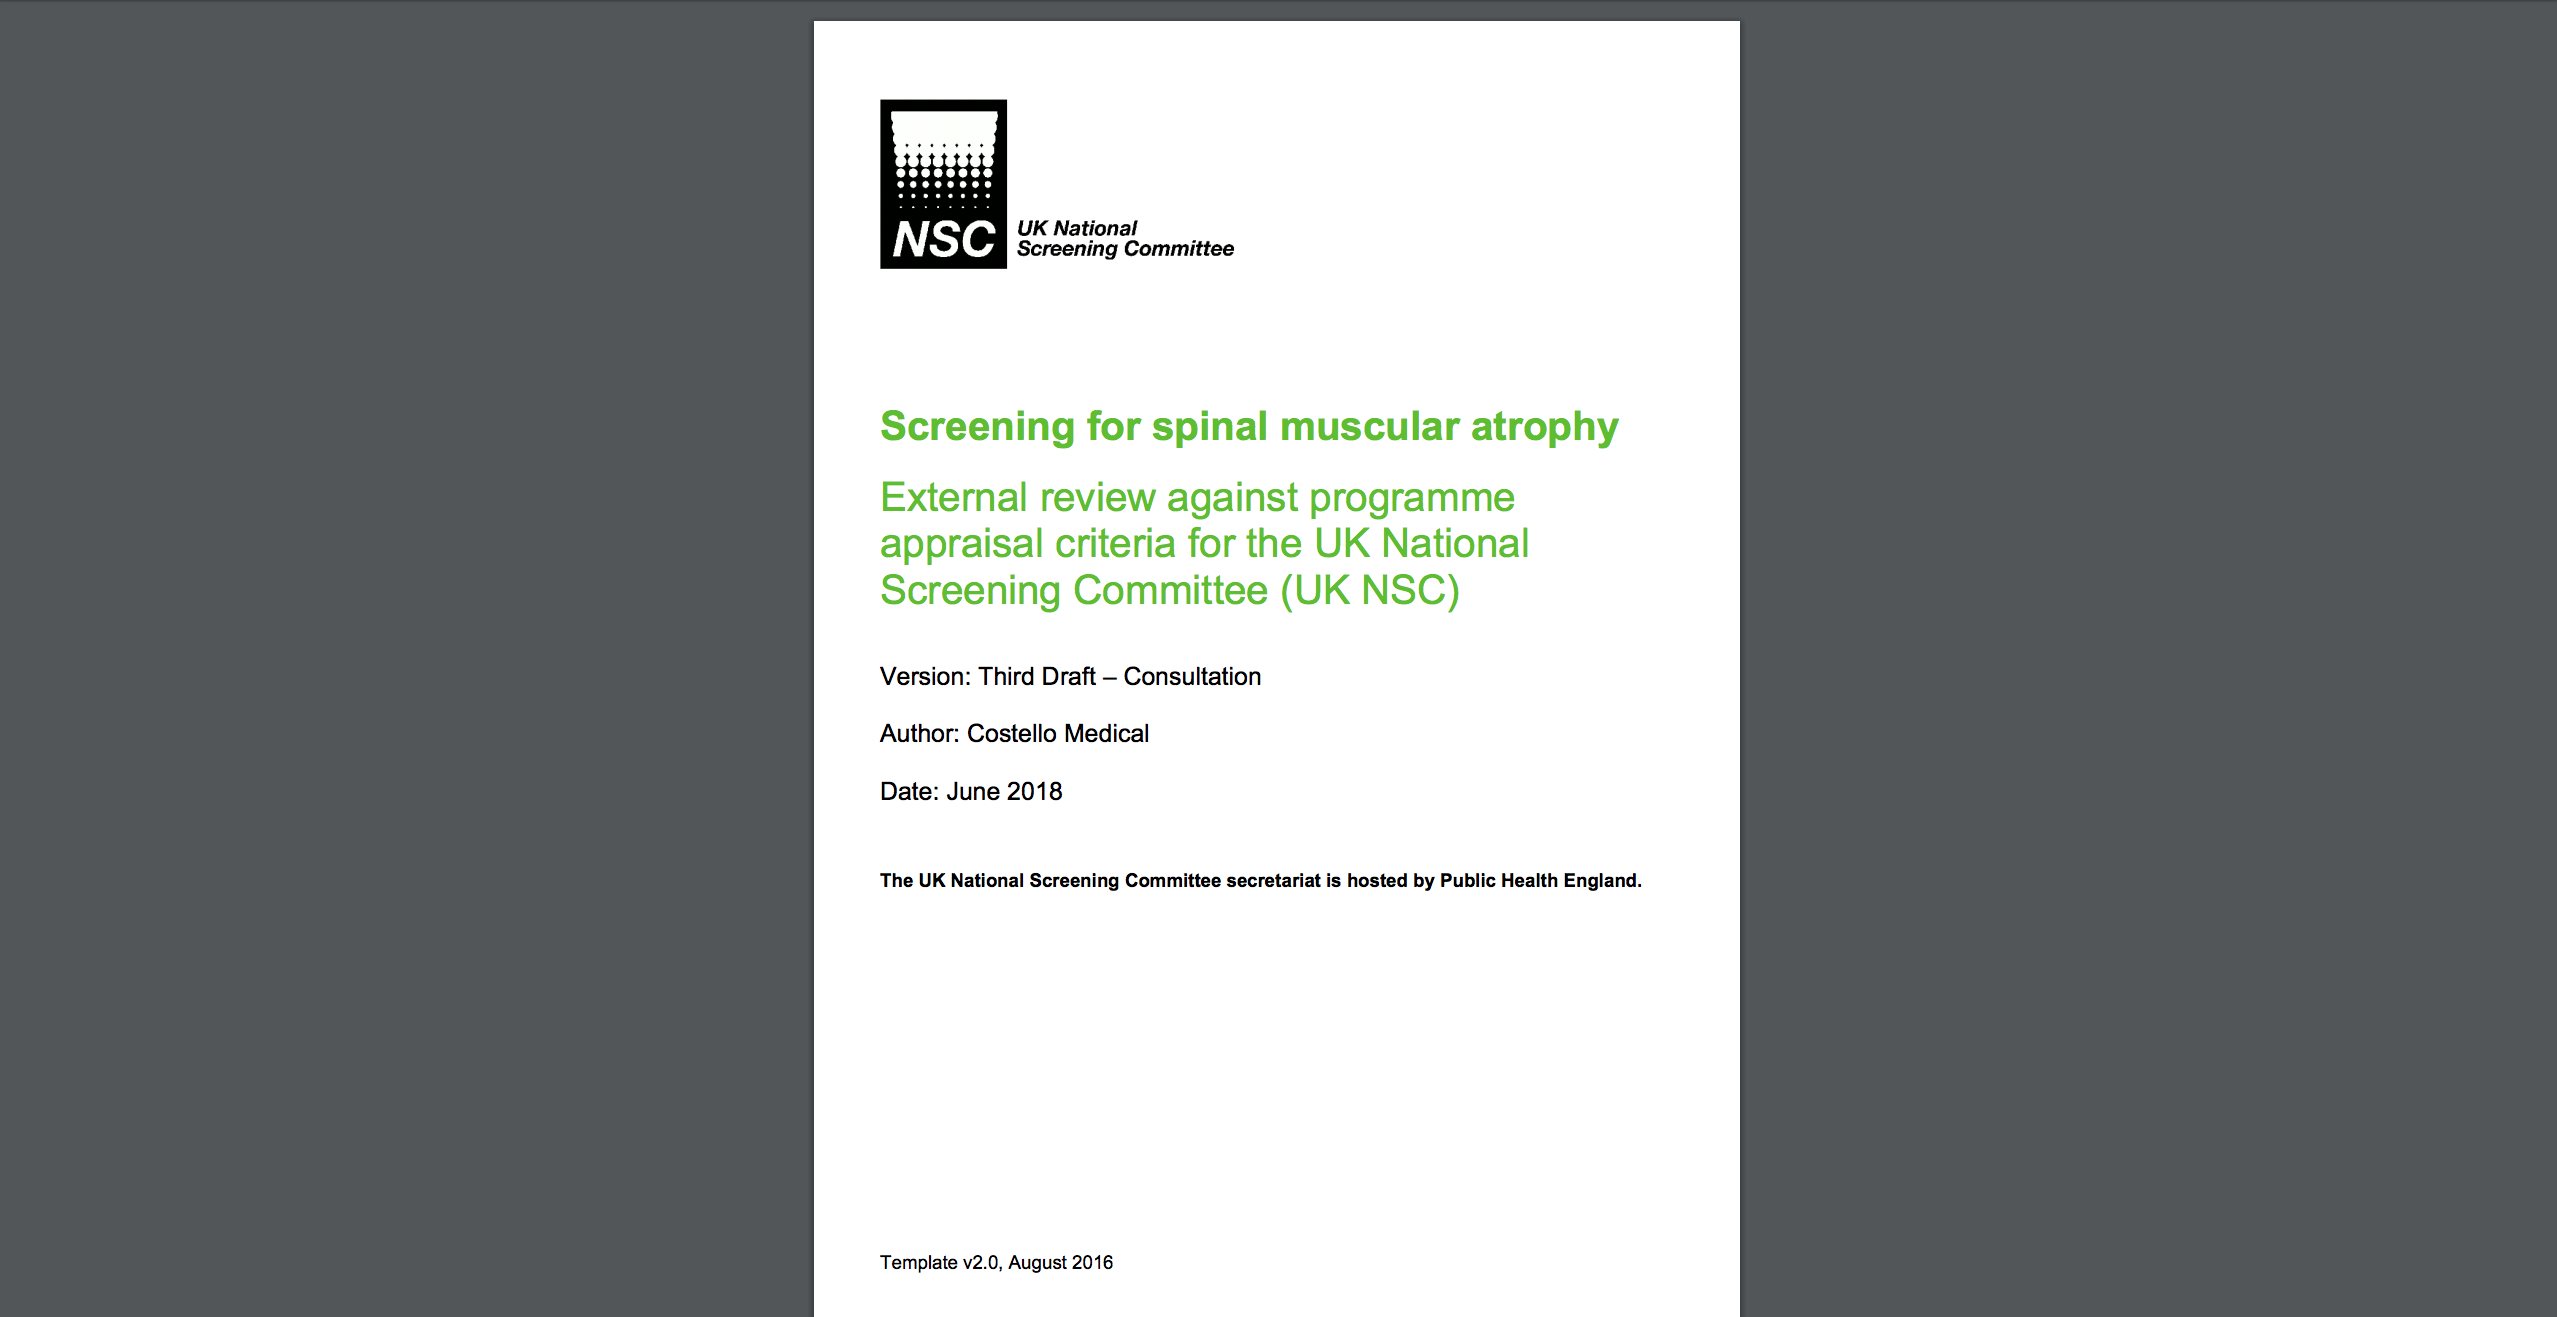
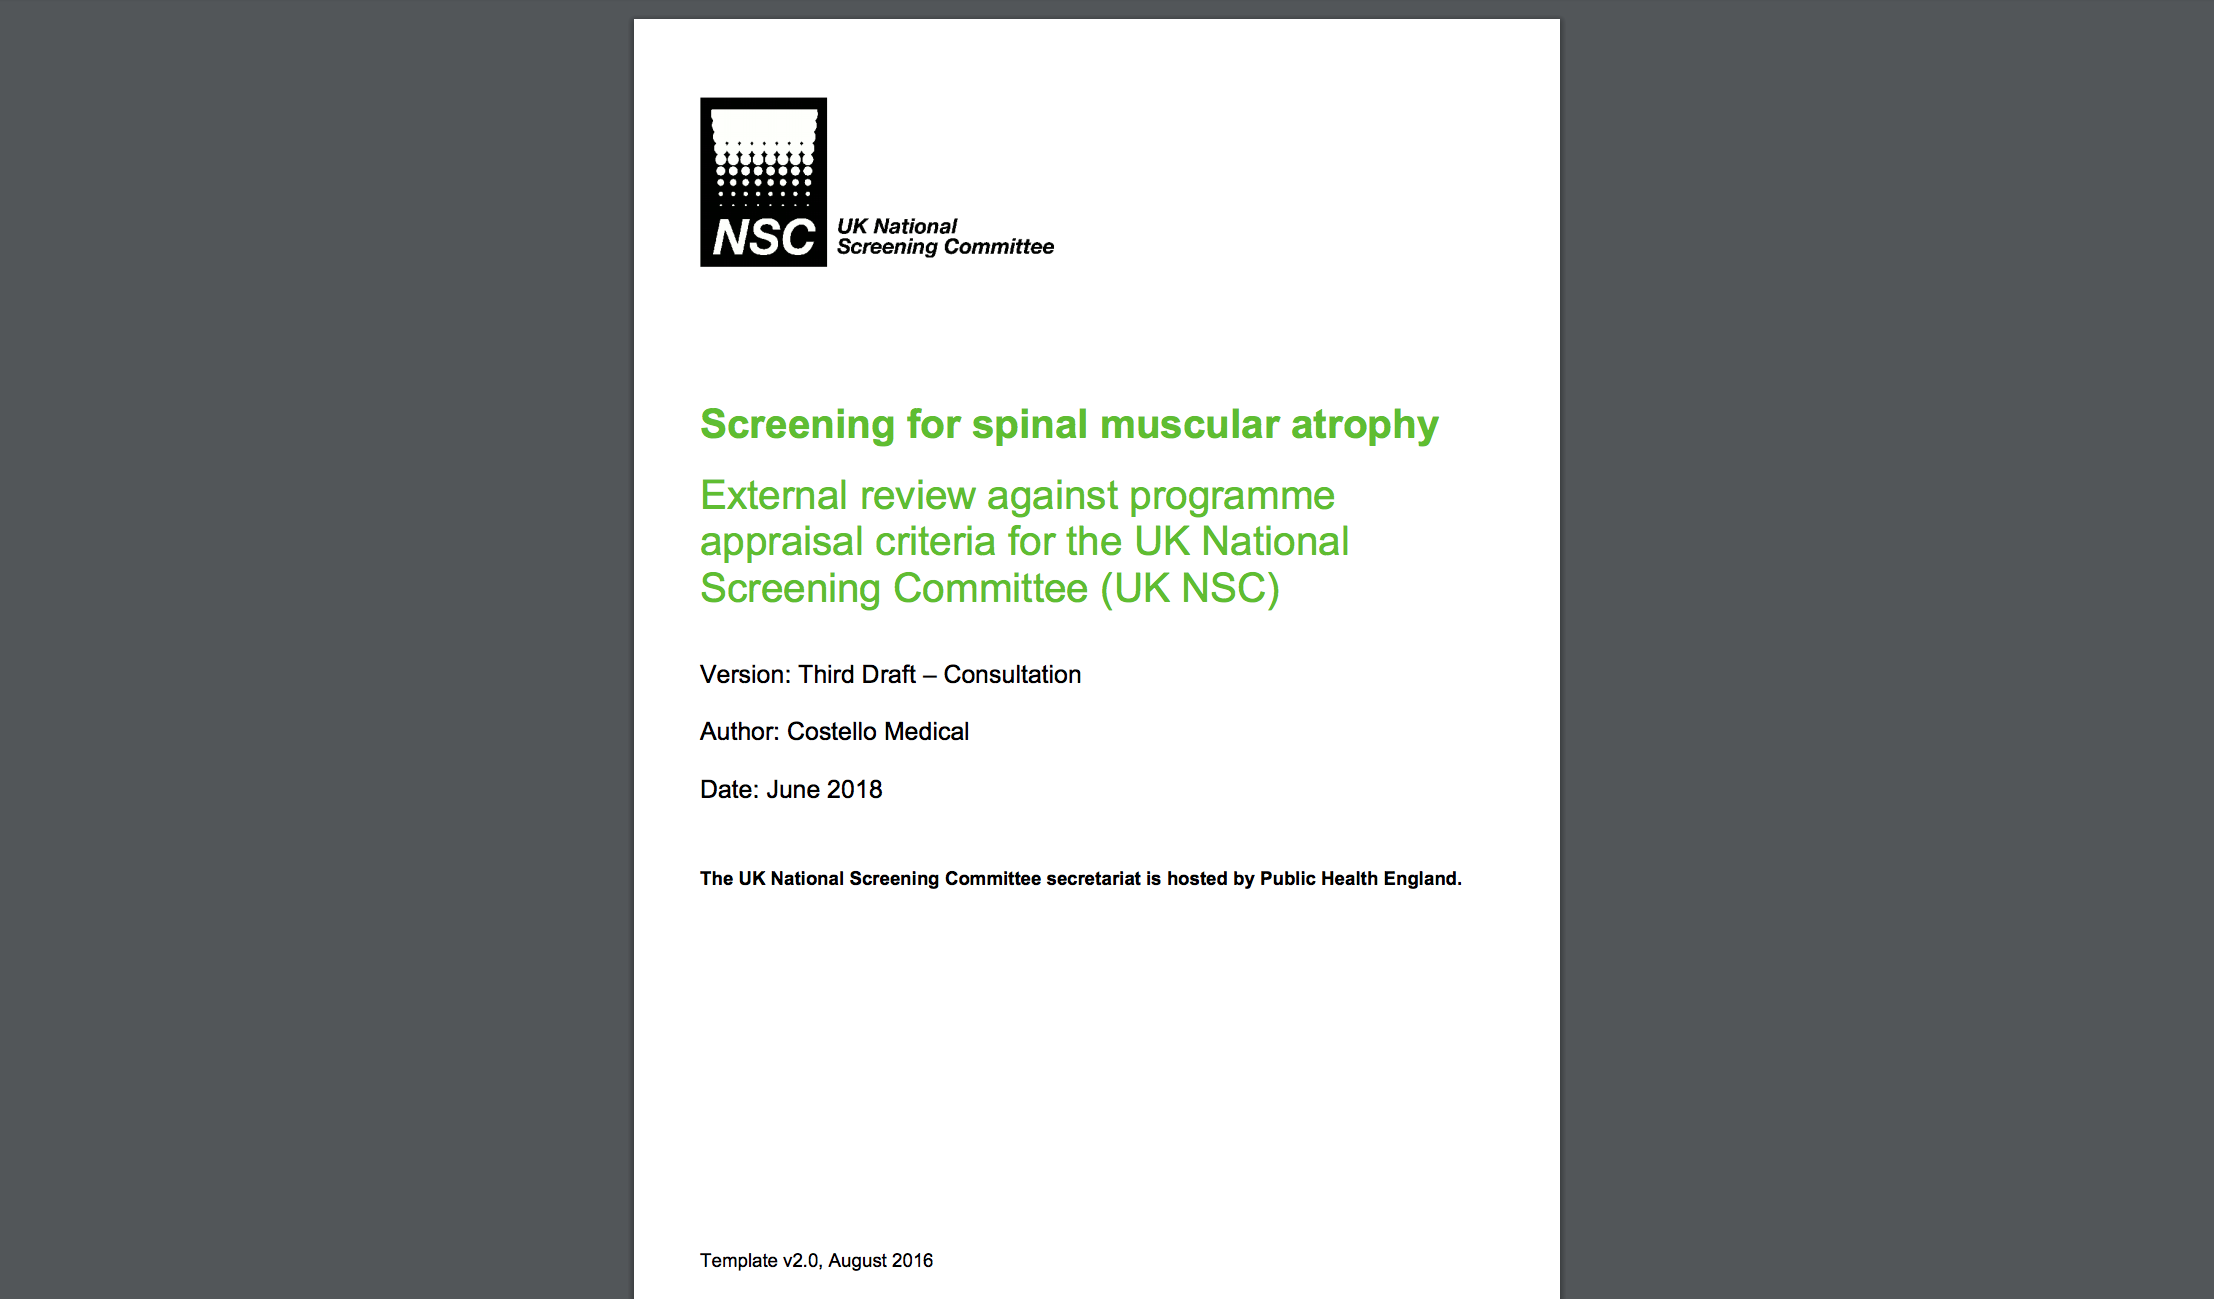
Corrected homepage and pdf

Changed region(s): [[0.2805, 0.0, 0.7168, 1.0]]

diff --git a/app/views/end-to-end/pdf.html b/app/views/end-to-end/pdf.html
@@ -1,7 +1,10 @@
-<div>
-  <a href="/end-to-end/sma-4">
-    <img src="/public/images/public-facing/pdf.png" alt="" class="policy-page">
-  </a>
-</div>
+<body style="margin: 0px">
+  <div>
+    <a href="/end-to-end/sma-4">
+      <img src="/public/images/public-facing/pdf.png" alt="" class="policy-page" style="width: 100%">
+    </a>
+  </div>
+</body>
+
 
 
